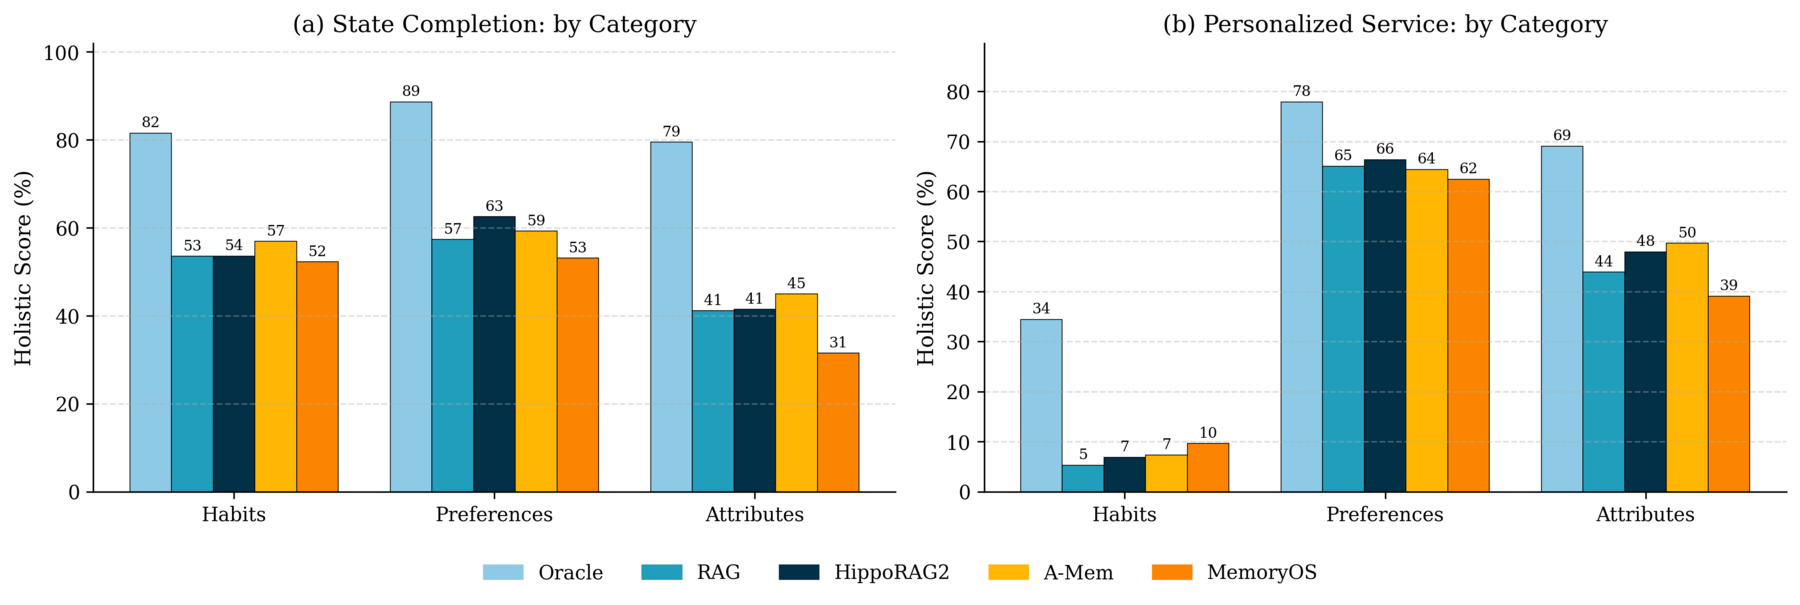
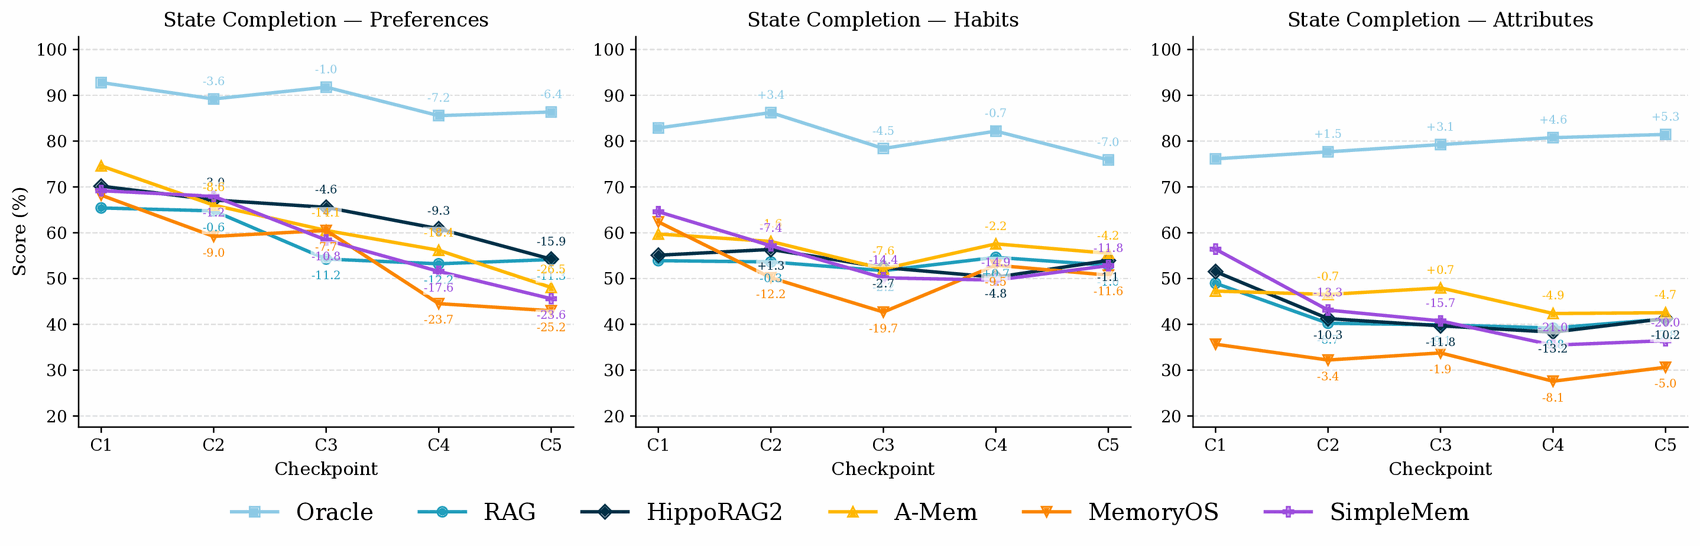
docs(site): fix Key Findings to match the paper's figures and findings
The previous page used stale/wrong PNGs and mismatched captions. Render the
figures the paper actually cites (finding1/2/3_figure.pdf) and rewrite the
three findings to the paper's statements:
1. State Completion degrades over the horizon; Personalized Service does not.
2. The decline is mainly preferences; habits stay flat; attributes drop early.
3. Retention vs update are separate failure modes; no architecture wins both.
Plus a takeaway on >93% of failures tracing to memory. All six systems
(incl. SimpleMem) now appear.

diff --git a/docs/index.html b/docs/index.html
@@ -234,49 +234,60 @@
   <section id="findings">
     <div class="wrap">
       <h2 class="section-title">Key Findings</h2>
-      <p class="section-sub">Benchmarking Oracle, RAG, HippoRAG2, A-Mem, and MemoryOS under DynamicMem's checkpoint protocol.</p>
+      <p class="section-sub">Benchmarking Oracle plus five memory systems — RAG, HippoRAG2, A-Mem, MemoryOS, and SimpleMem — at the five quarterly checkpoints C1–C5.</p>
 
       <div class="finding">
         <span class="tag">Finding 1</span>
-        <h3>Reconstructing the profile gets harder over time — but acting on it doesn't.</h3>
+        <h3>State Completion degrades over the horizon — but Personalized Service does not.</h3>
         <p>
-          As histories grow, every system gets steadily worse at <strong>reconstructing</strong> the user's profile
-          (State Completion), yet no worse at <strong>using</strong> that profile to complete a service task
-          (Personalized Service) — even though both draw on the same memory. The bottleneck is recovering state, not
-          applying it.
+          From C1 to C5, State Completion declines for every system (−4.4 RAG, −6.6 HippoRAG2, −8.9 A-Mem,
+          −14.2 MemoryOS, −16.7 SimpleMem). Yet Personalized Service shows no such decay — it is <em>higher</em> at C5
+          than C1 for four of the five systems. Since both tasks read the same memory, the bottleneck is
+          <strong>recovering</strong> state, not <strong>acting</strong> on it.
         </p>
         <figure>
-          <img src="static/images/finding1.png" alt="State Completion and Personalized Service scores across the five quarterly checkpoints for all systems.">
-          <figcaption>State Completion (top) and Personalized Service (bottom), overall and across checkpoints C1–C5. Markers annotate the change relative to C1.</figcaption>
+          <img src="static/images/finding1.png" alt="State Completion and Personalized Service scores across the five quarterly checkpoints C1–C5 for all systems.">
+          <figcaption>(a) State Completion and (b) Personalized Service across the five quarterly checkpoints C1–C5, for all systems. Markers are annotated with their change relative to C1.</figcaption>
         </figure>
       </div>
 
       <div class="finding">
         <span class="tag">Finding 2</span>
-        <h3>No system both keeps facts that stay true and replaces facts that change.</h3>
+        <h3>The decline is mainly preferences; habits stay stable and attributes drop early then flatten.</h3>
         <p>
-          The same mechanism that preserves a stable fact tends to block overwriting a changed one. Errors cluster on
-          <strong>preferences</strong> (which users never state outright) and on naming the <strong>exact entity</strong>
-          a fact refers to — which gym, which work tool. Retention and update behave as competing objectives, and the
-          right update semantics differ by family.
+          Breaking State Completion down by state family, <strong>preferences</strong> account for most of the decline
+          (e.g. −26.5 for A-Mem from C1 to C5) and degrade steadily — they are implicit, inferred from many scattered
+          logs that later evidence blurs. <strong>Habits</strong> stay roughly flat (recurring behavior adds redundant
+          evidence), and <strong>attributes</strong> drop early then hold.
         </p>
         <figure>
-          <img src="static/images/finding2.png" alt="State Completion across checkpoints decomposed by state family: preferences, habits, attributes.">
-          <figcaption>State Completion across C1–C5 by state family: (a) Preferences, (b) Habits, (c) Attributes.</figcaption>
-        </figure>
-        <figure style="margin-top:18px">
-          <img src="static/images/finding3.png" alt="State Completion split into long-range retention and update, by family.">
-          <figcaption>The same scores split into long-range <strong>retention</strong> (top) and <strong>update</strong> (bottom), by family — exposing where each system trades one off against the other.</figcaption>
+          <img src="static/images/finding2.png" alt="State Completion across checkpoints C1–C5 decomposed by state family: preferences, habits, attributes.">
+          <figcaption>State Completion across C1–C5, decomposed by state family: (a) Preferences, (b) Habits, (c) Attributes, for all systems. Markers are annotated with their change relative to C1.</figcaption>
         </figure>
       </div>
 
       <div class="finding">
         <span class="tag">Finding 3</span>
-        <h3>Over 93% of failures come from memory, not the answer model.</h3>
+        <h3>Retention and update are separate failure modes — no architecture wins both.</h3>
         <p>
-          When predictions are wrong, more than <strong>93%</strong> of failures trace to what the memory system
-          retrieves rather than to the model that writes the final answer. The largest room for improvement lies in
-          memory itself — in how it retains, updates, and surfaces the right evidence.
+          A falling score can mean forgetting a long-standing fact (<strong>retention</strong>) or failing to adopt a
+          changed one (<strong>update</strong>) — distinct failures an aggregate curve hides. The same mechanism that
+          lets a system hold a stable fact often blocks it from adopting a changed one, and the trade-off differs by
+          family: append-only stores (RAG, HippoRAG2) adopt changes fast but forget; consolidating stores
+          (A-Mem, SimpleMem, MemoryOS) retain but blur old and new.
+        </p>
+        <figure>
+          <img src="static/images/finding3.png" alt="State Completion split into long-range retention (top row) and update (bottom row), by family.">
+          <figcaption>State Completion split into long-range <strong>retention</strong> (top row) and <strong>update</strong> (bottom row), by family. Retention re-asks about facts unchanged since C1 (a forgetting curve as the lookback grows); update scores facts whose gold value just changed. Neither regime is defined at C1, so both rows start at C2.</figcaption>
+        </figure>
+      </div>
+
+      <div class="finding" style="background:var(--accent-soft); border:1px solid var(--line); border-radius:14px; padding:22px 24px;">
+        <span class="tag" style="background:#fff;">Takeaway</span>
+        <h3 style="margin-bottom:4px;">Over 93% of failures trace to memory, not the answer model.</h3>
+        <p style="margin:0;">
+          When predictions are wrong, more than <strong>93%</strong> of failures come from what the memory system
+          delivers rather than the model that writes the final answer — so the headroom lies in memory itself.
         </p>
       </div>
     </div>
